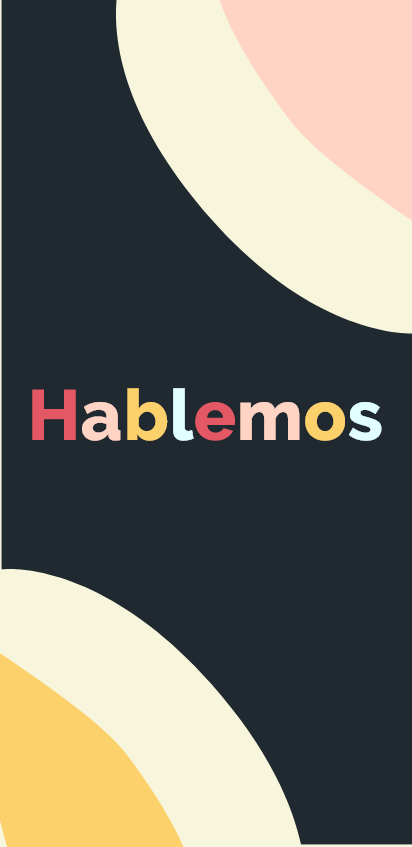
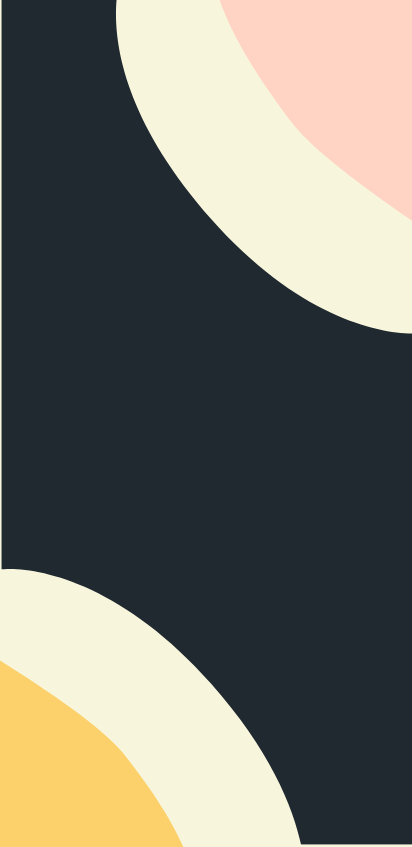
hablemos cambiado

diff --git a/lib/start.dart b/lib/start.dart
@@ -1,6 +1,8 @@
 import 'package:firebase_core/firebase_core.dart';
 import 'package:flutter/material.dart';
 
+import 'constants.dart';
+
 // Initial screen, shows only the start button (COMENZAR) ======================
 
 class StartFireBase extends StatelessWidget {
@@ -36,6 +38,7 @@ class Home extends StatelessWidget {
     return Stack(
       children: <Widget>[
         _background(context, size),
+        _letras(context, size),
         _startButton(context, size),
       ],
     );
@@ -43,13 +46,94 @@ class Home extends StatelessWidget {
 }
 
 Widget _background(BuildContext context, Size size) {
-  return SingleChildScrollView(
-    child: Image(
-      height: size.height,
-      width: size.width,
-      image: AssetImage("assets/images/start_image.png"),
-      fit: BoxFit.cover,
-    ),
+  return Image(
+    height: size.height,
+    width: size.width,
+    image: AssetImage("assets/images/start_image.png"),
+    fit: BoxFit.cover,
+  );
+}
+
+Widget _letras(BuildContext context, Size size) {
+  return Column(
+    crossAxisAlignment: CrossAxisAlignment.center,
+    mainAxisAlignment: MainAxisAlignment.center,
+    children: [
+      SizedBox(
+        width: double.infinity,
+      ),
+      Row(
+        mainAxisAlignment: MainAxisAlignment.spaceEvenly,
+        children: <Widget>[
+          SizedBox(width: 20.0),
+          Container(
+              child: Text(
+            'H',
+            style: Theme.of(context).textTheme.headline3.copyWith(
+                color: kRojoOscuro,
+                fontWeight: FontWeight.bold,
+                fontSize: size.width * 0.15),
+          )),
+          Container(
+              child: Text(
+            'a',
+            style: Theme.of(context).textTheme.headline3.copyWith(
+                color: kRosado,
+                fontWeight: FontWeight.bold,
+                fontSize: size.width * 0.15),
+          )),
+          Container(
+              child: Text(
+            'b',
+            style: Theme.of(context).textTheme.headline3.copyWith(
+                color: kAmarillo,
+                fontWeight: FontWeight.bold,
+                fontSize: size.width * 0.15),
+          )),
+          Container(
+              child: Text(
+            'l',
+            style: Theme.of(context).textTheme.headline3.copyWith(
+                color: kAzulClaro,
+                fontWeight: FontWeight.bold,
+                fontSize: size.width * 0.15),
+          )),
+          Container(
+              child: Text(
+            'e',
+            style: Theme.of(context).textTheme.headline3.copyWith(
+                color: kRojoOscuro,
+                fontWeight: FontWeight.bold,
+                fontSize: size.width * 0.15),
+          )),
+          Container(
+              child: Text(
+            'm',
+            style: Theme.of(context).textTheme.headline3.copyWith(
+                color: kRosado,
+                fontWeight: FontWeight.bold,
+                fontSize: size.width * 0.15),
+          )),
+          Container(
+              child: Text(
+            'o',
+            style: Theme.of(context).textTheme.headline3.copyWith(
+                color: kAmarillo,
+                fontWeight: FontWeight.bold,
+                fontSize: size.width * 0.15),
+          )),
+          Container(
+              child: Text(
+            's',
+            style: Theme.of(context).textTheme.headline3.copyWith(
+                color: kAzulClaro,
+                fontWeight: FontWeight.bold,
+                fontSize: size.width * 0.15),
+          )),
+          SizedBox(width: 20.0),
+        ],
+      ),
+    ],
   );
 }
 
